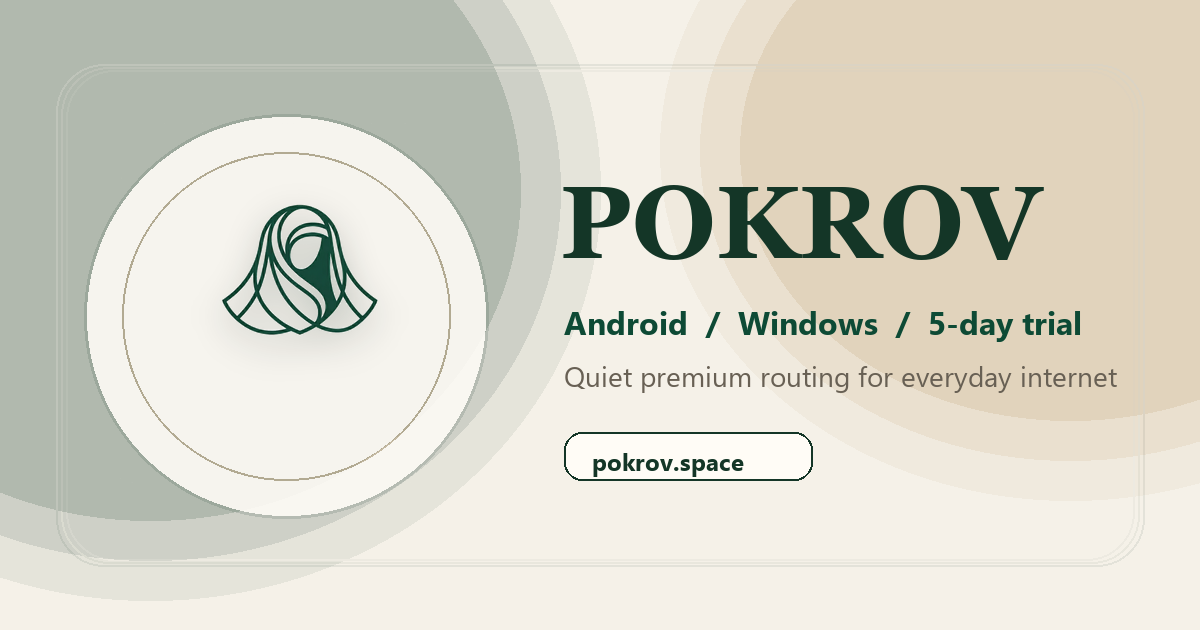
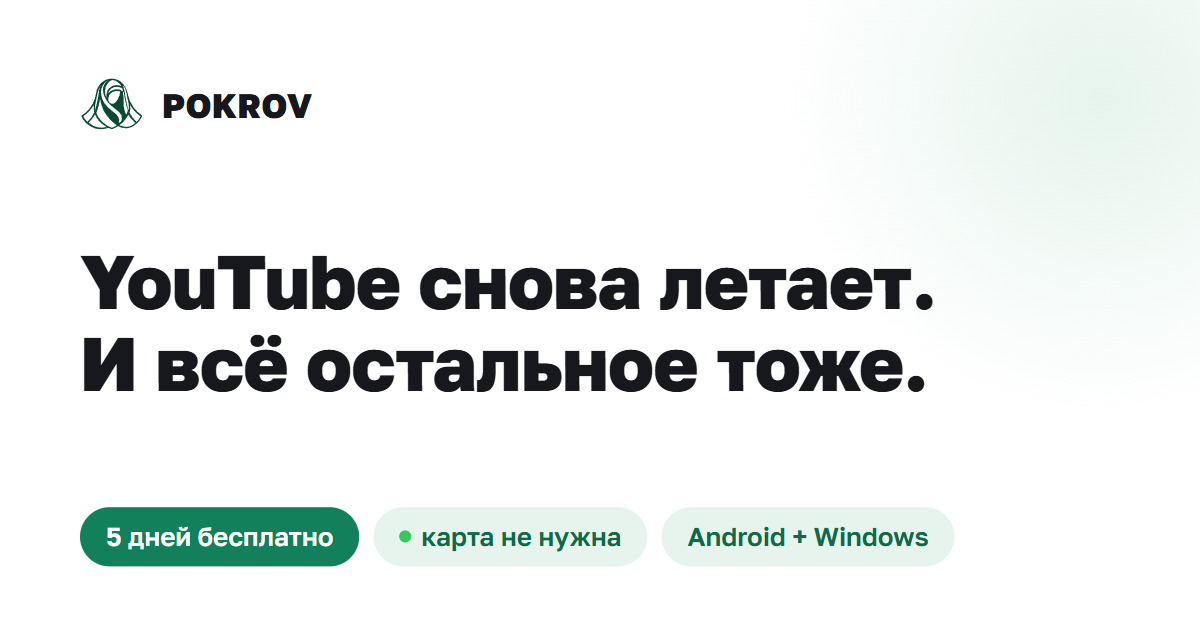
marketing: honest copy fixes, redesigned share previews, product doc positioning

diff --git a/marketing/src/app/youtube/page.tsx b/marketing/src/app/youtube/page.tsx
@@ -17,7 +17,7 @@ export default function YoutubePage() {
       breadcrumbName="YouTube"
       heroKicker="Для YouTube и длинных видео"
       heroTitle="YouTube снова в полном качестве"
-      heroSubtitle="Скачайте приложение, нажмите «Подключить» — и видео идут без «крутилки», в 1080p и выше. Проверьте бесплатно, 5 дней без карты."
+      heroSubtitle="Скачайте приложение, нажмите «Подключить» — и видео идут в полном качестве, без «крутилки». Проверьте бесплатно, 5 дней без карты."
       scenarioTitle="Как дойти до первого видео"
       scenarioBody="Никаких настроек и профилей: приложение само делает то, что нужно."
       scenarioCards={[

diff --git a/marketing/src/app/mobile/page.tsx b/marketing/src/app/mobile/page.tsx
@@ -28,7 +28,7 @@ export default function MobilePage() {
         },
         {
           eyebrow: "Живёт в фоне",
-          title: "Не мешает и не садит батарею",
+          title: "Работает и не мешает",
           desc: "Подключение держится в фоне, а российские приложения работают напрямую.",
         },
         {

diff --git a/docs/product/portal-vpn-product.md b/docs/product/portal-vpn-product.md
@@ -160,10 +160,16 @@ Current public role:
 
 - `https://pokrov.space/` is the public entry homepage for new users and should converge most acquisition traffic into app-first trial, install, and first-connection guidance
 - `https://pokrov.space/checkout/` is the public pricing, paywall, and activation-key purchase continuation surface when the user has plan intent or returns after checking the product
-- `https://pokrov.space/install/` is the dedicated install-help surface used after purchase, after known-user continuation, or when a public download CTA cannot resolve directly to a real artifact
+- `https://pokrov.space/install/` is the public step-by-step install instruction page (Android unknown-sources and Windows SmartScreen honesty included); since the `2026-07` redesign it is indexable, sits in the sitemap, and routes download CTAs through the cabinet downloads flow
 - indexable landing pages can capture platform, use-case, or Telegram intent, but they must converge to the same product facts and the same app-first trial/install/first-connection CTA set
 - public legal pages also live on the marketing surface
-- the current canonical public route family is `/mobile/`, `/tiktok/`, `/youtube/`, `/devices/`, and `/telegram/`, with permanent redirects from the earlier legacy SEO paths
+- the current canonical public route family is `/mobile/`, `/tiktok/`, `/youtube/`, `/devices/`, `/telegram/`, and `/vpn/`, with permanent redirects from the earlier legacy SEO paths
+
+2026-07 redesign positioning notes:
+
+- the public surface runs on the `pokrov-clear` white/emerald design foundation (root `DESIGN.md`) with Golos Text and light-only theme
+- the landing leads with real drawn app UI (connect/locations/account screens) instead of abstract promises — showing the actual product is the trust wedge none of the surveyed RU competitors use
+- an explicit honesty strip is part of public positioning: trial without card, one-time activation keys with no auto-renewal («отменять нечего»), release files visible on GitHub Releases, human Telegram support; fake counters, fabricated reviews, and self-scored competitor tables stay forbidden
 
 ### WebApp
 
